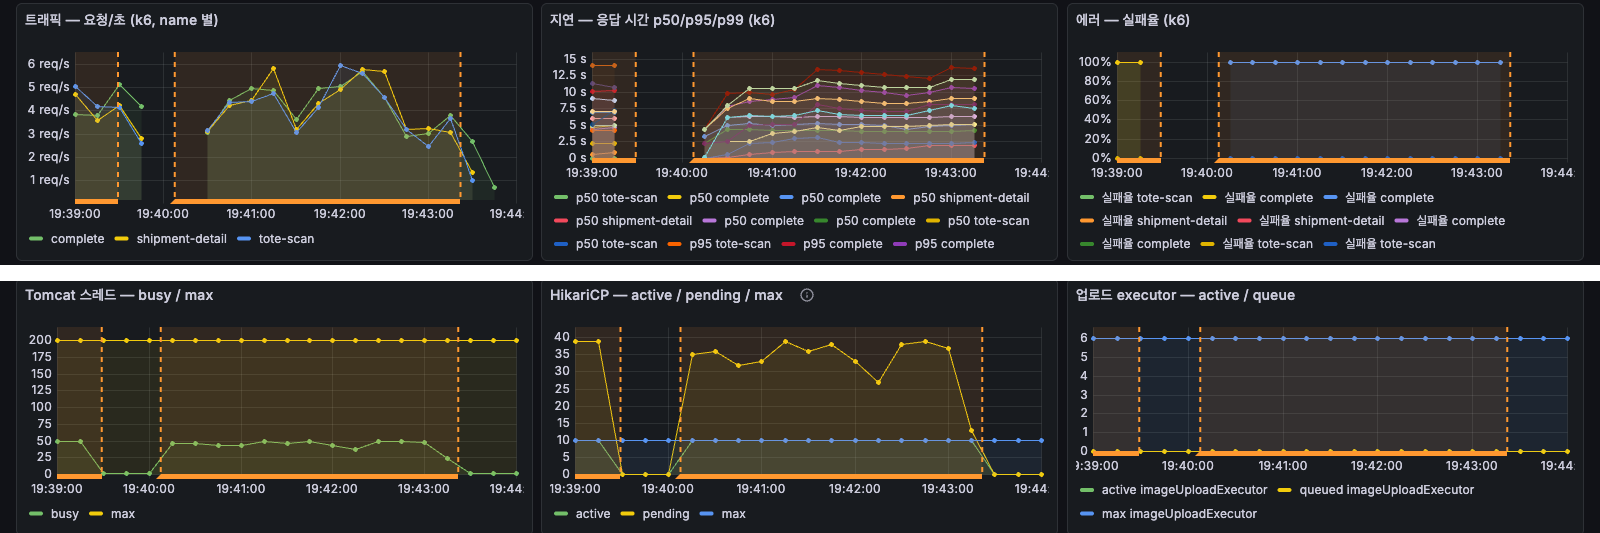
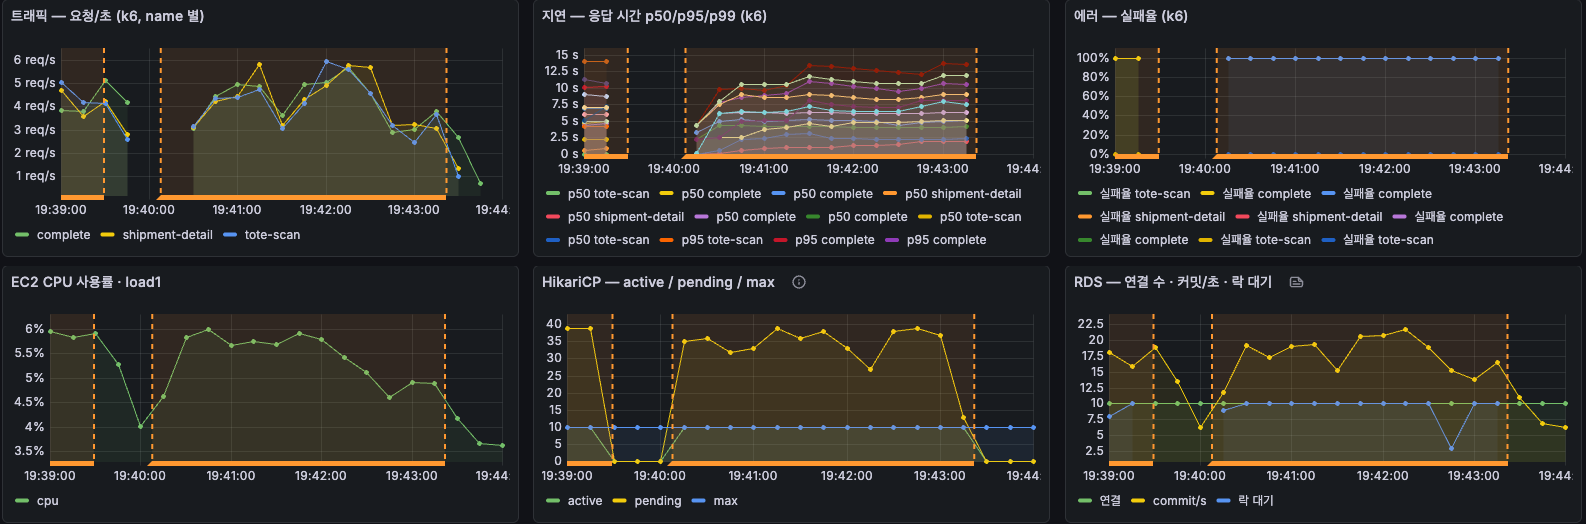
docs(portfolio): 성과 1을 모니터링 분석 순서(증상→CPU→풀→DB 락)로 재작성, 캡처에 CPU·RDS 패널 포함
- 문제 배경: p95·에러율 → CPU 한가 → 커넥션 풀 고갈·점유 14초 → 데드락 356건
- 캡처 재구성: 위 트래픽·지연·에러, 아래 CPU·HikariCP·RDS 락 대기
- 결론에 증상·원인 지표 전후 표 추가

diff --git a/docs/portfolio/portfolio-docs-insert.md b/docs/portfolio/portfolio-docs-insert.md
@@ -20,11 +20,13 @@
 
 ### 문제 배경
 
-- 포장 완료가 박스에 담긴 상품의 재고 행을 하나씩 잠그고 수량을 줄였습니다. 박스마다 잠그는 순서가 달라 동시 포장에서 데드락이 발생했습니다.
-- 잠금 전에 읽어 둔 수량으로 저장해 갱신 손실도 생겼습니다. 재고 감소분이 포장 건수의 절반만 반영됐습니다.
-- 포장 작업자 50명 동시 부하(k6, 3분)에서 에러율 40.4%, 데드락 356건, 포장 완료 p95 10초 이상(프론트엔드 요청 타임아웃)이었습니다.
+- 포장 작업자 50명 동시 부하(k6, 3분)에서 포장 완료 p95가 10초를 넘고 에러율이 40.4%였습니다. 락과 무관한 토트 스캔·상세 조회까지 p95 5~6초로 함께 느려졌습니다.
+- EC2 CPU는 6%로 한가했습니다. CPU가 남는데 모든 API가 느려지면 공용 자원의 대기 문제라, 커넥션 풀과 DB를 봤습니다.
+- HikariCP는 커넥션 10개가 전부 사용 중이고 대기가 39, RDS 락 대기 세션은 연결 10개 전부였습니다. 커넥션 점유 시간은 최대 14초로, 풀이 마른 원인은 반납이 느린 것이었습니다.
+- PostgreSQL 데드락이 356건이고 대기 대상은 전부 상품 재고 행이었습니다. 포장 완료가 박스에 담긴 상품의 재고 행을 하나씩 잠그는데, 잠그는 순서가 배송단위마다 달라 순환 대기가 생겼습니다.
+- 잠금 전에 읽어 둔 수량으로 저장해 갱신 손실도 있었습니다. 재고 감소분이 포장 건수의 절반만 반영됐습니다.
 
-![개선 전 포장 50명 부하. 포장 완료 p95 10초, 에러율 40.4%, 커넥션 대기 스레드 39개](images/02-packing-before.png)
+![개선 전, 포장 50명. 위: 완료 p95 10초 이상, 에러율 40.4%. 아래: CPU 6%로 한가한데 커넥션 풀은 10개 전부 사용·대기 39, RDS 락 대기 세션 10. 병목은 CPU가 아니라 DB 락 대기](images/02-packing-before.png)
 
 ### 해결 과정
 
@@ -41,9 +43,19 @@
 
 재고 행을 갱신하지 않으므로 데드락과 갱신 손실이 구조적으로 발생하지 않습니다. 원장이 105만 행까지 쌓이자 집계 쿼리가 풀 스캔으로 3.39초 걸린 문제는 인덱스 범위 스캔으로 0.66ms로 줄였습니다.
 
-같은 부하(포장 작업자 50명, 3분)에서 에러율은 40.4%에서 0%로, 포장 완료 p95는 10초 이상에서 73ms로 줄었습니다. 처리량은 초당 2.9건에서 32.6건으로 늘었습니다.
+같은 부하(포장 작업자 50명, 3분)에서 증상과 원인 지표가 함께 내려갔습니다.
 
-![개선 후 포장 50명 부하. 포장 완료 p95 73ms, 에러율 0%, 커넥션 대기 스레드 0개](images/03-packing-after.png)
+| 지표 | 개선 전 | 개선 후 |
+| :-: | :-: | :-: |
+| 포장 완료 p95 | 10.07초 | 73ms |
+| 에러율 | 40.4% | 0% |
+| 처리량 | 초당 2.9건 | 초당 32.6건 |
+| EC2 CPU | 6% | 21% |
+| 커넥션 풀 대기 | 39 | 0 (시작 30초 제외) |
+| RDS 락 대기 세션 | 10 | 2 |
+| 데드락 | 356건 | 0건 |
+
+![개선 후, 같은 부하. 위: 완료 p95 73ms, 에러 0. 아래: CPU 20~50%로 서버가 일하고, 커넥션 대기 0(시작 30초 제외), RDS 커밋 초당 100건 이상, 락 대기 0](images/03-packing-after.png)
 
 데드락 제거, 재고 변동 이력 확보
 
